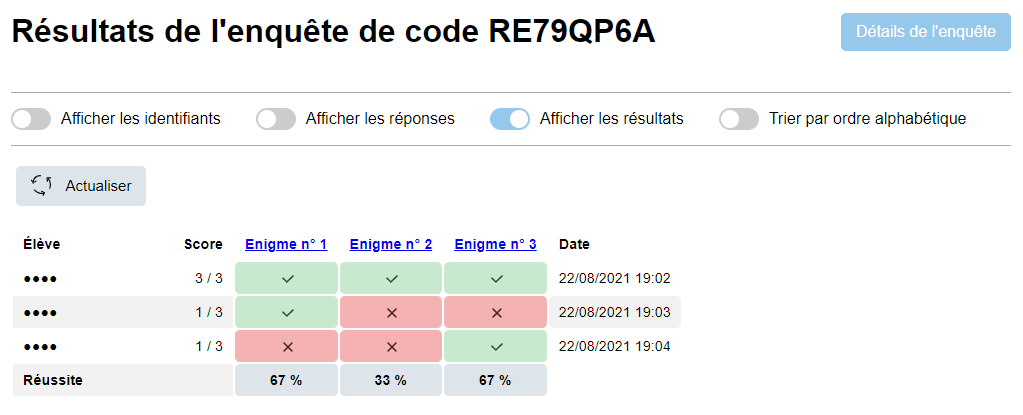
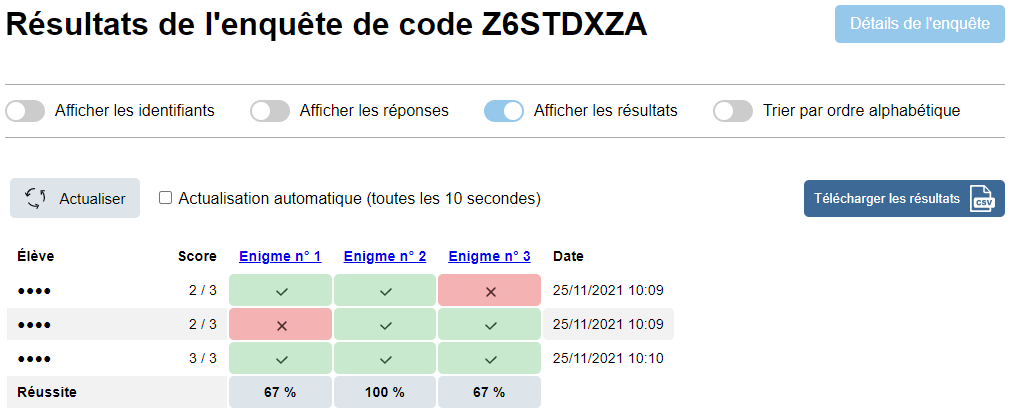
ajout de la fonctionnalité de maj automatique dans les pages de résultats d'une enquête

diff --git a/enquetes_snt/enigmes/static/enigmes/js/resultats.js b/enquetes_snt/enigmes/static/enigmes/js/resultats.js
@@ -9,31 +9,10 @@ gestionIdentifants();
 gestionReponses();
 gestionResultats();
 
-
-
 document.getElementById("switch-id").addEventListener("change", gestionIdentifants);
 document.getElementById("switch-reponses").addEventListener("change", gestionReponses);
 document.getElementById("switch-resultats").addEventListener("change", gestionResultats);
 document.getElementById("switch-tri").addEventListener("change", gestionTri);
-
-
-/* function cacheIdentifiants() {
-    var identifiantsElevesBefore = document.querySelectorAll(".cache-eleve");
-    var identifiantsEleves = document.querySelectorAll(".id-eleve");
-    for (var i = 0; i < identifiantsEleves.length; i++) {
-        identifiantsElevesBefore[i].dataset.cache = "●●●●";
-        identifiantsEleves[i].style.display = "none";
-    }
-}
-
-function afficheIdentifiants() {
-    var identifiantsElevesBefore = document.querySelectorAll(".cache-eleve");
-    var identifiantsEleves = document.querySelectorAll(".id-eleve");
-    for (var i = 0; i < identifiantsEleves.length; i++) {
-        identifiantsElevesBefore[i].dataset.cache = "";
-        identifiantsEleves[i].style.display = "block";
-    }
-} */
 
 function gestionIdentifants() {
     var identifiantsElevesBefore = document.querySelectorAll(".cache-eleve");
@@ -170,25 +149,6 @@ function triChronologique() {
     }    
 }
 
-/* function toggleReponses() {
-    var reponsesEleves = document.querySelectorAll(".reponse");
-    for (var i = 0; i < reponsesEleves.length; i++) {
-        reponsesEleves[i].classList.toggle("hidden");
-    }
-    reponsesAffichees = !reponsesAffichees;
-}
-
-function toggleResultats() {
-    var zoneReponsesEleves = document.querySelectorAll(".correct, .incorrect");
-    var svgReponses = document.querySelectorAll(".correct svg, .incorrect svg");
-    var reponsesEleves = document.querySelectorAll(".reponse");
-    for (var i = 0; i < reponsesEleves.length; i++) {
-        zoneReponsesEleves[i].classList.toggle("masque-reponse");
-        svgReponses[i].classList.toggle("hidden");
-    }
-    afficherResultats = !afficherResultats;
-} */
-
 function gestionTri() {    
     if (document.getElementById("switch-tri-checkbox").checked) {
         triAlphabetique();
@@ -202,11 +162,12 @@ function gestionTri() {
 
 document.querySelector("#fetch-call").addEventListener("click", event => {
     event.preventDefault(); // le formulaire ne doit pas être envoyé (sinon rafraichissement page)
-    // animation icone de chargement
-    const modale = document.querySelector("#modale-actualisation");
-    const iconeModale = document.querySelector(".modal-actualisation-content img");
-    modale.classList.add("show");
-    iconeModale.classList.add("rotate");
+    if (!(checkboxActualisationAuto.checked)) {
+        voirAnimationChargement();
+    } else {
+        cacherAnimationChargement();
+    }
+    
     // Création d'une requête à envoyer au serveur
     let formData = new FormData();
     formData.append('maj', 'true');
@@ -227,6 +188,38 @@ document.querySelector("#fetch-call").addEventListener("click", event => {
             iconeModale.classList.remove("rotate");   
         });
 });
+
+const modale = document.querySelector("#modale-actualisation");
+const iconeModale = document.querySelector(".modal-actualisation-content img");
+
+function voirAnimationChargement() {
+    // animation icone de chargement
+    modale.classList.add("show");
+    iconeModale.classList.add("rotate");
+}
+
+function cacherAnimationChargement() {
+    modale.classList.remove("show");
+    iconeModale.classList.remove("rotate");
+}
+
+var actualisationAuto;
+
+var checkboxActualisationAuto = document.querySelector("#case-actualisation-automatique");
+
+checkboxActualisationAuto.addEventListener('change', function() {
+  if (this.checked) {
+    actualisationAuto = setInterval(clicBoutonActualiser, 15000);
+  } else {
+    clearInterval(actualisationAuto);
+  }
+});
+
+function clicBoutonActualiser() {
+    document.querySelector("#fetch-call").click();
+}
+
+
 
 function majResultats(result) {
     const nbResultats = result['resultats'].length;

diff --git a/enquetes_snt/enigmes/templates/enigmes/accueil.html b/enquetes_snt/enigmes/templates/enigmes/accueil.html
@@ -76,9 +76,9 @@
       </div>
       <div id="mot-auteur">
         <p>J'ai voulu créer une application avant tout pour apprendre le développement Web, domaine que j'ai découvert il y a peu et qui m'intéresse beaucoup par son aspect créatif. Dans un second temps, pour que les choses soient plus concrètes et stimulantes, j'ai souhaité développer une application qui soit utile et l'idée des <em>enquêtes</em> me paraissait intéressante en ce sens. J'ai choisi de le faire avec le framework <a href="https://www.djangoproject.com/" target="_blank">Django</a> pour parfaire mes connaissances dans le langage Python.</p>
-        <p>Je ne suis pas un développeur professionnel, loin de là, et j'ai pour ainsi dire tout découvert en créant cette application. Aussi, je ne peux pas vous garantir qu'il n'y ait pas de "bugs", et je vous serais reconnaissant de m'en informer si vous en rencontrez. J'essaierai d'y remédier en fonction de mon temps disponible, qui n'est pas toujours très important en période scolaire.</p>
+        <p>Je ne suis pas un développeur professionnel et j'ai pour ainsi dire tout découvert en créant cette application. Aussi, je ne peux pas vous garantir qu'il n'y ait pas de "bugs", et je vous serais reconnaissant de m'en informer si vous en rencontrez. J'essaierai d'y remédier en fonction de mon temps disponible.</p>
         <p>De même, si vous voyez des améliorations, qu'elles soient d'ordre pédagogique, technique ou ergonomique, n'hésitez pas à m'en faire part.</p>
-        <p id="dernier">En espérant que cette application vous soit utile,</p>
+        <p id="dernier">En espérant que cette application puisse vous être utile,</p>
         <p>Germain Becker</p>
       </div>
     </div>

diff --git a/enquetes_snt/enigmes/templates/enigmes/enquete_resultats.html b/enquetes_snt/enigmes/templates/enigmes/enquete_resultats.html
@@ -49,11 +49,17 @@
     <div class="actualisation">
         <form method="POST">
             {% csrf_token %}
-            <div id="btn-actualiser">
-                <button id="fetch-call" type="submit">
-                    <img id="icone-actualiser" src="{% static 'enigmes/img/refresh.svg' %}" alt="icone actualisation">
-                    <span>Actualiser</span>
-                </button>
+            <div class="actualisations">
+                <div id="btn-actualiser">
+                    <button id="fetch-call" type="submit">
+                        <img id="icone-actualiser" src="{% static 'enigmes/img/refresh.svg' %}" alt="icone actualisation">
+                        <span>Actualiser</span>
+                    </button>
+                </div>
+                <div class="case-actualisation-automatique">
+                    <input type="checkbox" id="case-actualisation-automatique" name="actualisation-automatique">
+                    <label for="case-actualisation-automatique">Actualisation automatique (toutes les 15 secondes)</label>
+                </div>
             </div>
         </form>
     </div>

diff --git a/enquetes_snt/enigmes/static/enigmes/js/gestion_modale_copie_csv.js b/enquetes_snt/enigmes/static/enigmes/js/gestion_modale_copie_csv.js
@@ -14,9 +14,7 @@ function ouvertureModale(item) {
     let domaineURL = window.location.host;
     let url = domaineURL + cheminURL;
 
-    // on l'écrit dans la zone de texte de la modale
-    
-
+    // on l'écrit dans la zone de texte de la modale 
     // on affiche la modale
     if (item.classList.contains('partage')) {
         let inputLienPartage = document.getElementById('input-lien-partage');
@@ -79,14 +77,12 @@ boutonsCopie.forEach(item => {
     })
 })
 
-
 let textInputs = document.querySelectorAll('#input-lien, #input-lien-partage');
 textInputs.forEach(item => {
     item.addEventListener('click', function() {
         item.select();
     })
 })
-
 
 // Affichage modale pour création du fichier CSV
 

diff --git a/enquetes_snt/enigmes/static/enigmes/css/base.css b/enquetes_snt/enigmes/static/enigmes/css/base.css
@@ -2617,6 +2617,12 @@ input:checked + .slider:before {
     transform: scale(1.1);
 }
 
+.actualisations { /* case à cocher pour actualisation automatique */
+    display: flex;
+    align-items: center;
+    gap: 10px;
+}
+
 /* modale de chargement au clic sur "Actualiser" */
 
 .modal-actualisation {

diff --git a/enquetes_snt/enigmes/views.py b/enquetes_snt/enigmes/views.py
@@ -1212,23 +1212,6 @@ def dico_complet_bonnes_mauvaises_reponses_eleve(resultat, liste_enigmes, bonnes
 
     return d
 
-
-""" def dico_complet_reponses_eleve(resultat, correction_reponses, liste_enigmes):
-    d = {
-        "id": resultat.id_eleve,
-        "score": list(correction_reponses.values()).count(True),
-        "reponses": {
-            enigme.pk: {
-                "rep_eleve": resultat[enigme.pk],
-                "correct": correction_reponses[enigme.pk]
-            }
-            for enigme in liste_enigmes
-        },
-        "date": resultat.date
-    }
-    return d """
-
-
 @login_required
 def resultats_enquete(request, enquete_id):
     enquete = get_object_or_404(Enquete.objects.prefetch_related('enigmes'), pk=enquete_id)
